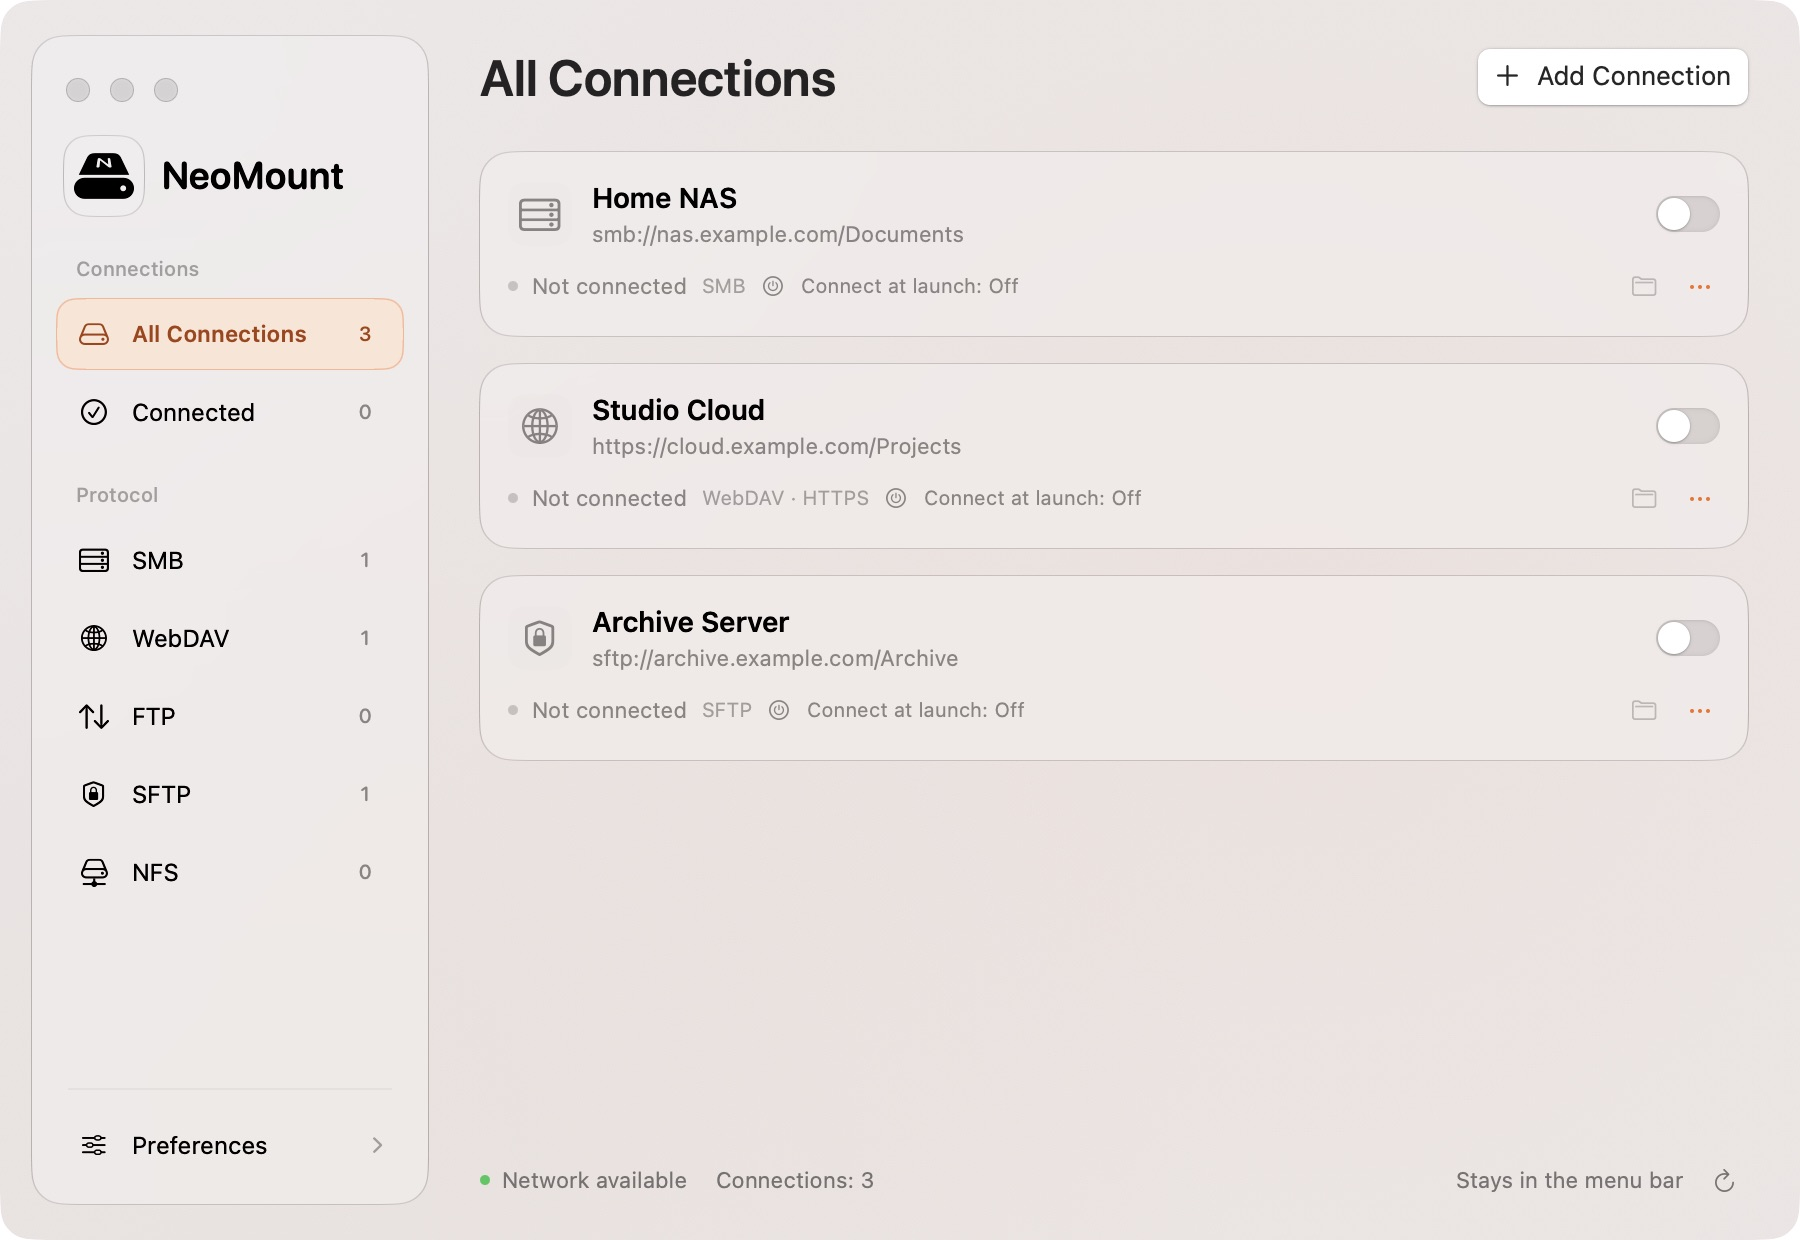
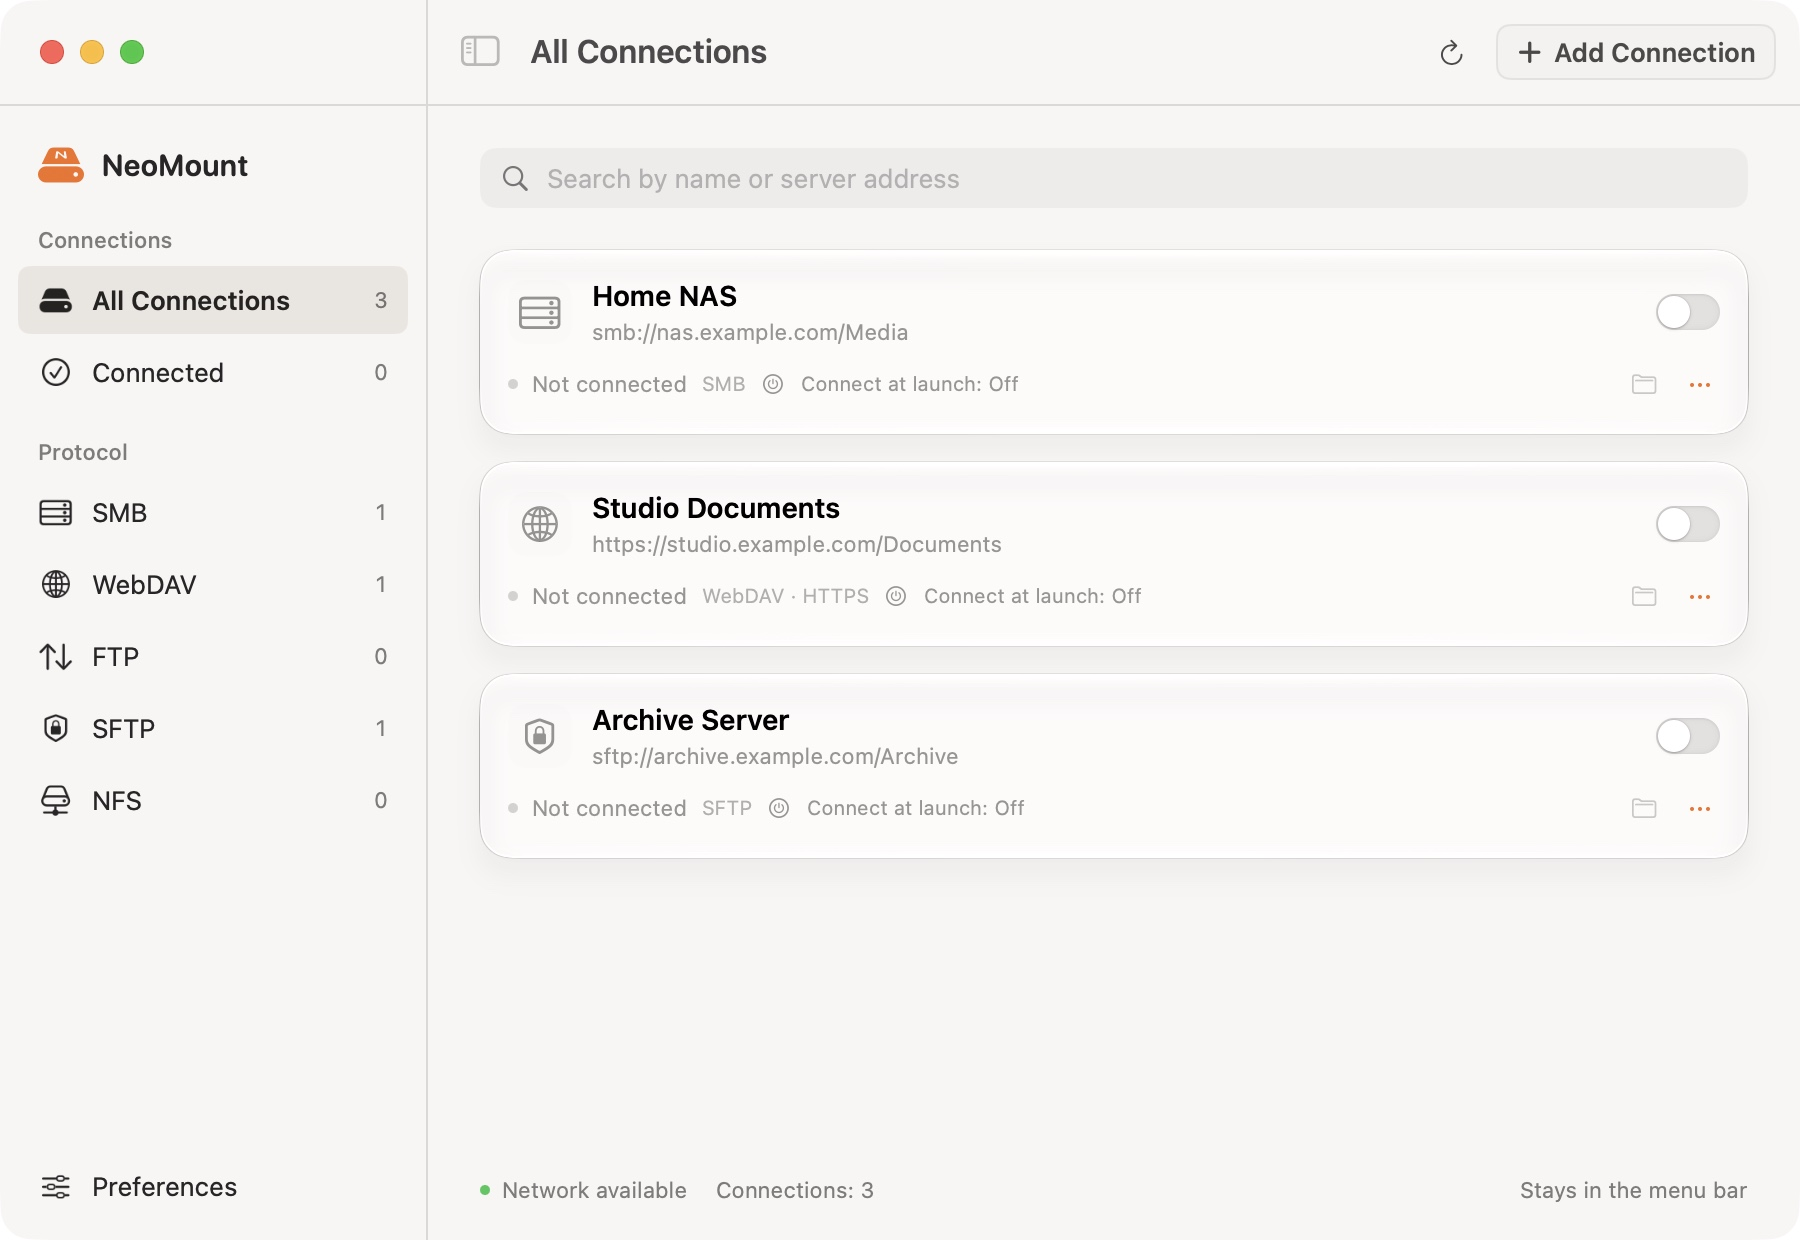
Refresh Chinese and English NeoMount screenshots for 1.10.8

diff --git a/assets/README.md b/assets/README.md
@@ -1,3 +1,3 @@
-NeoMount screenshots captured on macOS, without desktop backgrounds. `menubar-connected-zh.png` is a user-provided capture of two connected drives. Other screenshots use example configurations.
+NeoMount 1.10.8 screenshots were captured on macOS with an isolated profile and example.com connections. The older menubar-connected-zh.png is a user-provided image.
 
-NeoMount 实机窗口截图，不带桌面背景。`menubar-connected-zh.png` 由用户提供，展示两个已连接的磁盘；其余截图使用示例配置。
+1.10.8 的窗口和菜单栏截图来自 Mac 上的独立演示配置，地址均使用 example.com。旧版 menubar-connected-zh.png 为用户提供的历史图片。
